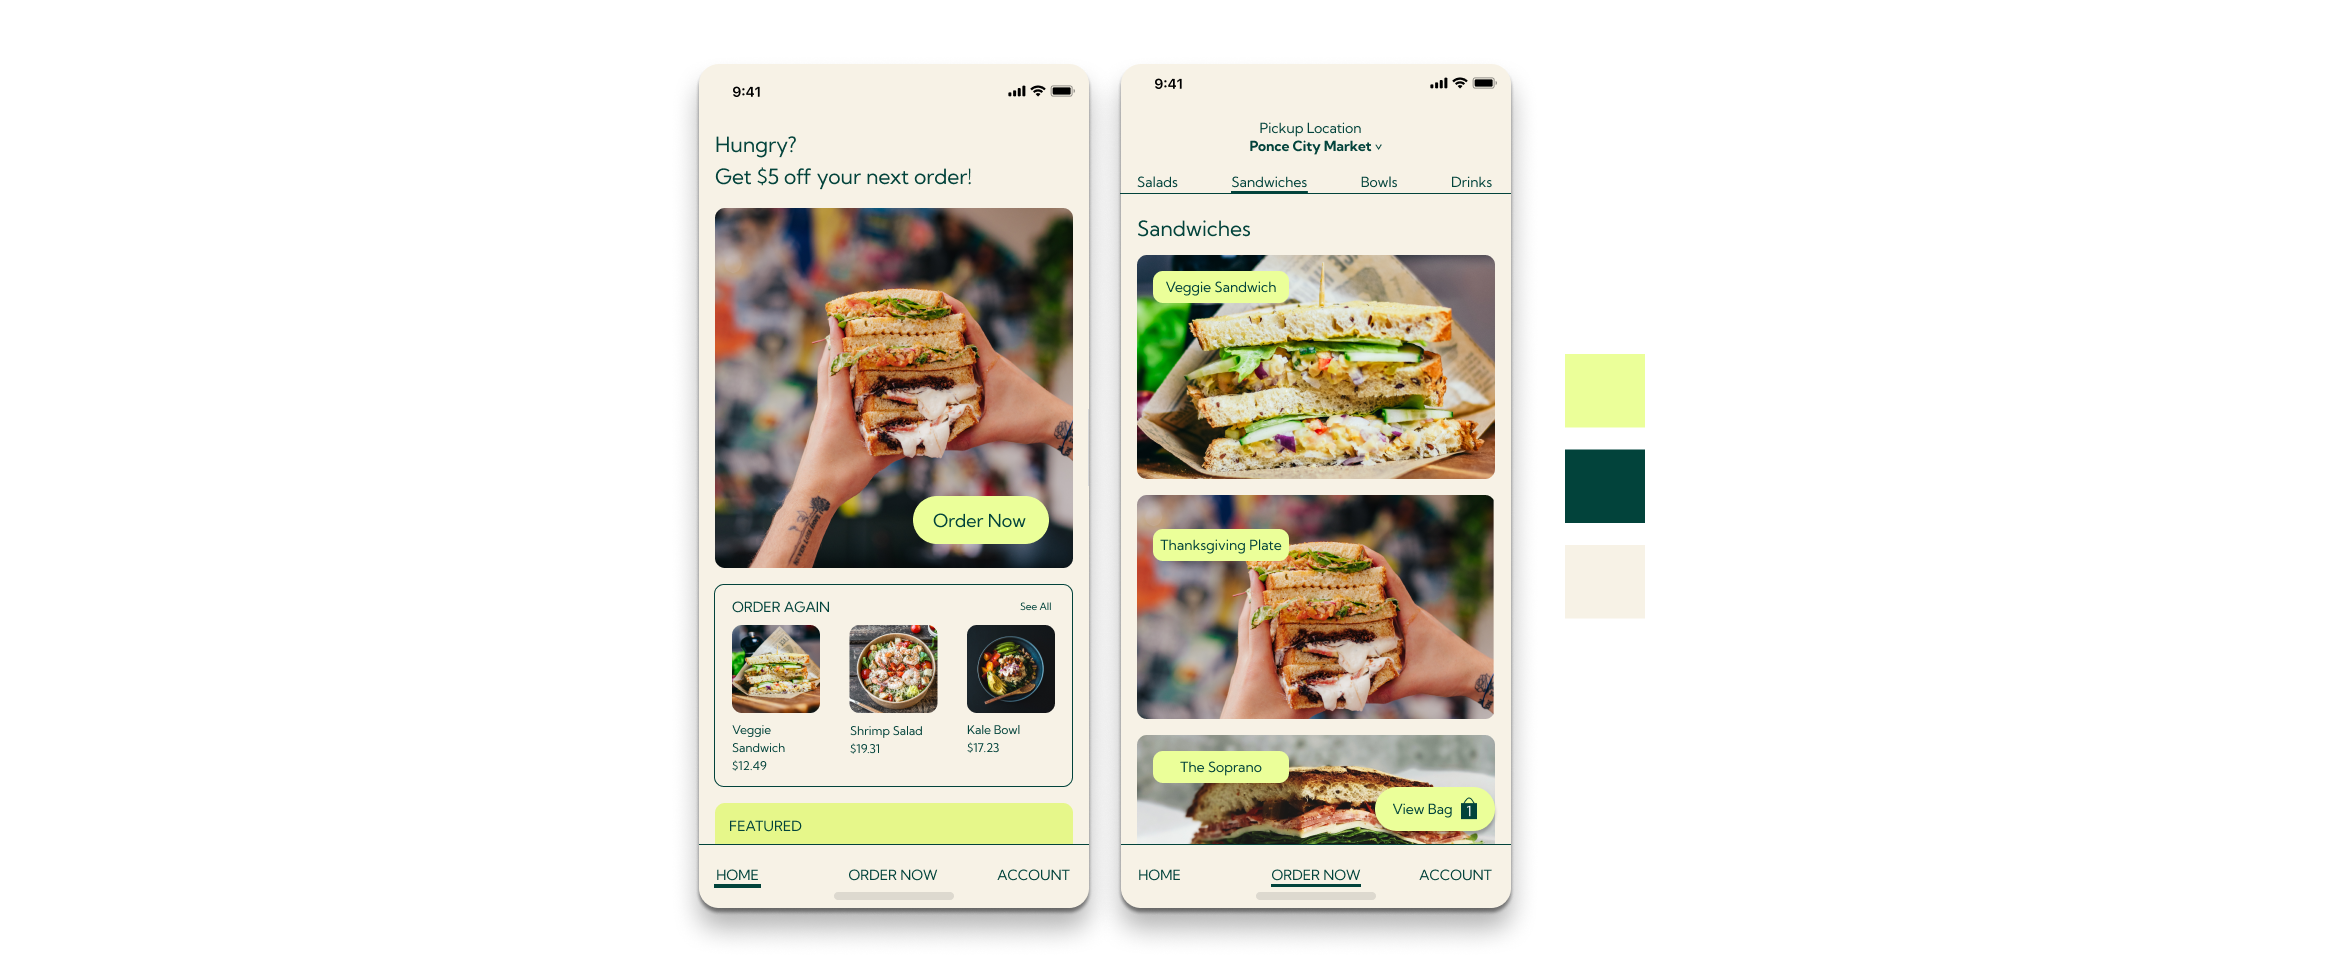
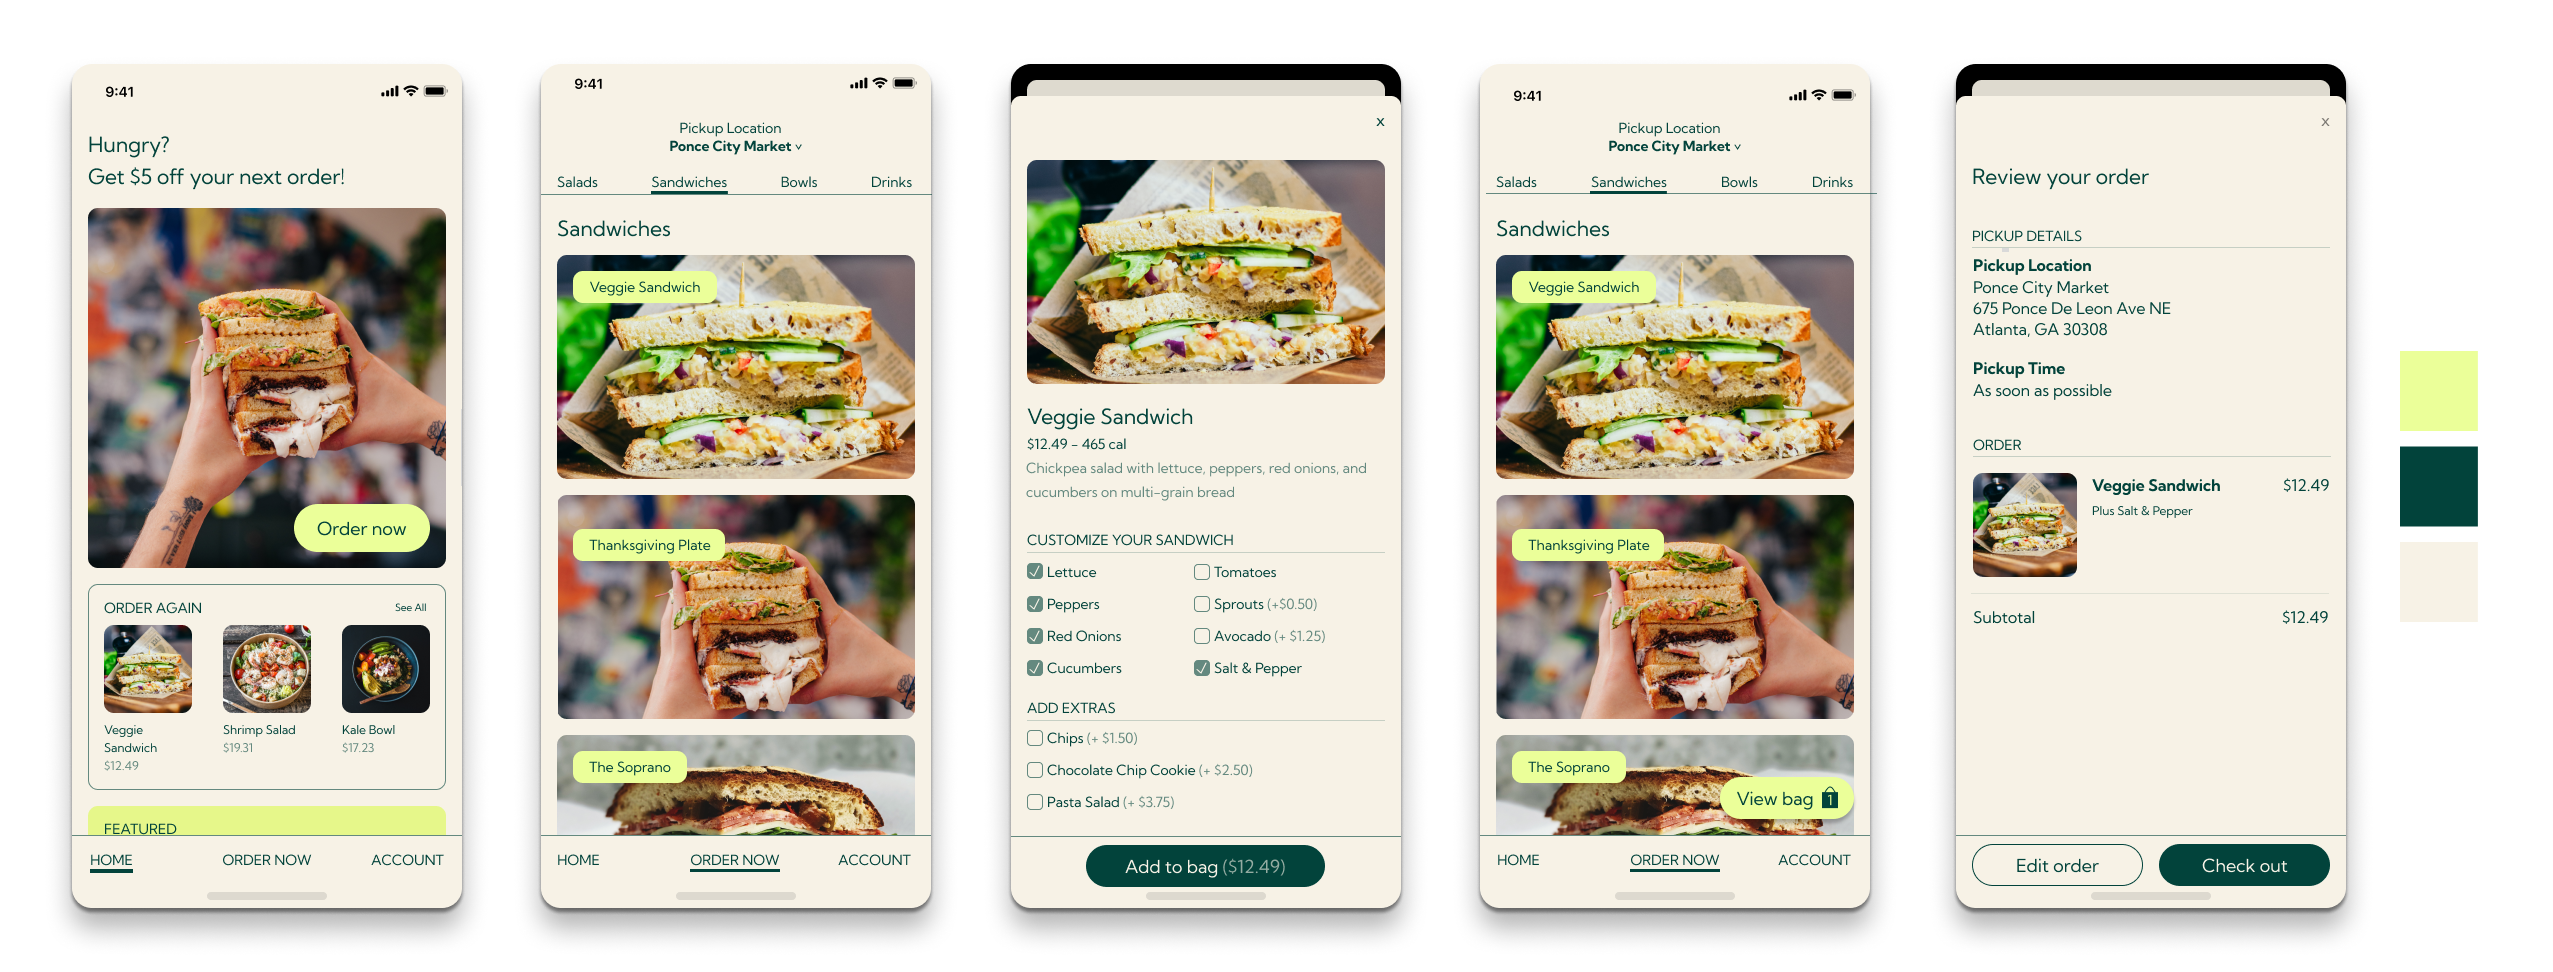
7/14/23

diff --git a/design-challenge.html b/design-challenge.html
@@ -88,13 +88,15 @@
       <div class="caption">Photo by <a href="https://unsplash.com/@lucabravo?utm_source=unsplash&utm_medium=referral&utm_content=creditCopyText">Luca Bravo</a> on Unsplash</div>
       <hr id="design-hr">
       <h3>Prompt 3: Above the Fold (Landing Page)</h3>
-      <p>The above-the-fold experience for the website of Stampede, Pittsburgh's most electrifying country band. This experience prominently features links to their about page, schedule, YouTube channel, and social media platforms. On mobile devices, the hero image dynamically showcases individual pictures of the band, introducing the new Stampede.</p>
+      <p>The above-the-fold experience for the website of Stampede, Pittsburgh's most electrifying country band. This experience prominently features links to their about page, schedule, YouTube channel, and social media platforms. On mobile devices, the hero image cycles through individual pictures of the band, introducing the new Stampede.</p>
       <p>Stay tuned for the full case study, coming soon.</p>
       <img class="new-personas" src="above-the-fold.png" alt="The above-the-fold experience for Stampede's website">
       <hr id="design-hr-nc">
-      <h3>Prompt 4: Menu</h3>
-      <p>An app from your favorite lunch spot which includes a dashboard view highlighting promotions, previous orders, and featured menu items, a digital menu, and an account page.</p>
+      <h3>Prompt 4: Food Order Flow</h3>
+      <p>A convenient app for your favorite lunch spot, enabling you to order your food ahead of time. The following designs showcase the process of ordering a sandwich through the app's intuitive flow.</p>
       <img class="new-personas" src="menu-app.png" alt="A food ordering app from your favorite lunch spot">
+      <div class="caption">Photo by <a href="https://unsplash.com/@eaterscollective?utm_source=unsplash&utm_medium=referral&utm_content=creditCopyText">Eaters Collective</a>, <a href="https://unsplash.com/@pillepriske">Pille R. Priske</a>, and <a href="https://unsplash.com/@bite_size01">Ryan Concepcion</a> on Unsplash</div>
+      <div style="margin-top: 32px;"><a href="https://www.figma.com/proto/Rxw8w5y5bxUZJE3cSm6EhO/Untitled?type=design&node-id=1032-5264&t=gJwMXhJjAwUzybhU-8&scaling=contain&page-id=847%3A102&starting-point-node-id=1032%3A5264&hide-ui=1" target=”_blank”><div class="button">View Prototype</div></a></div>
       <hr id="design-hr-nc">
       <h3>Prompt 5: Countdown (+ App Icon)</h3>
       <p>A period app that provides users with a countdown to their next menstrual cycle. The app features a calendar for tracking and logging relevant data. Additionally, it includes an app icon with a pink color scheme and blood-red cherries, representing its unique branding.</p>
